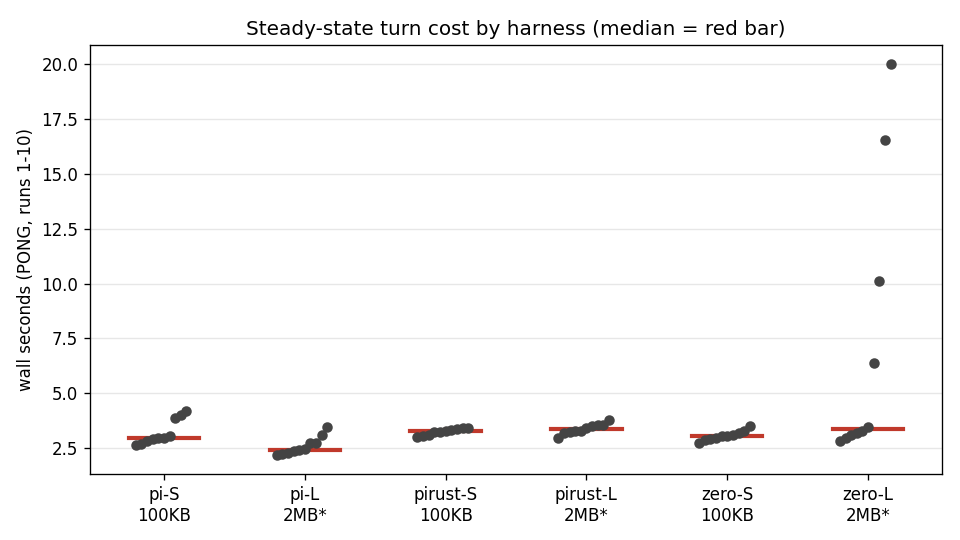
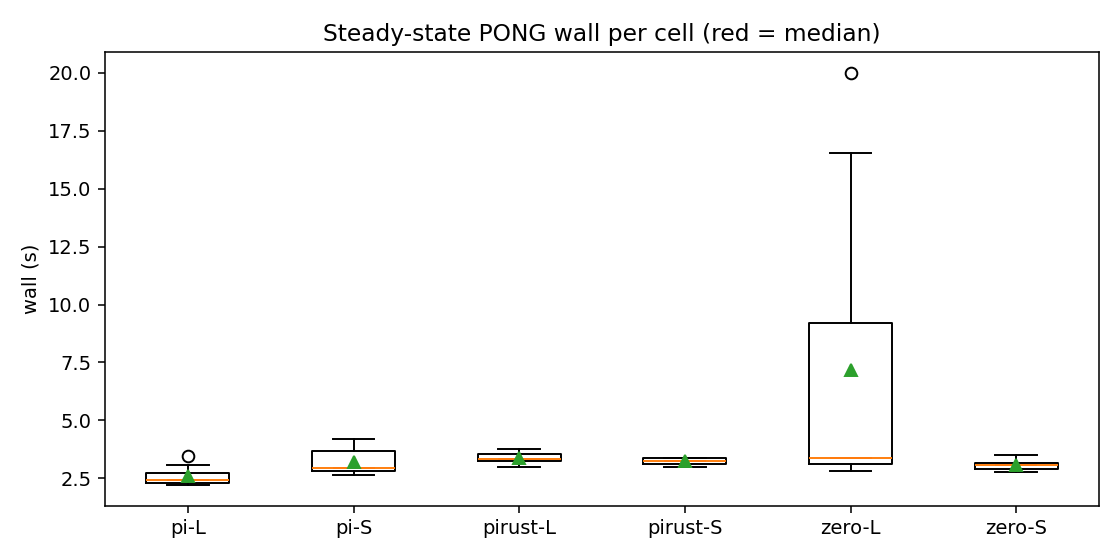
Add reproduction script, README, and the post-hoc measurement correction
- analyze.py: recomputes every table in REPORT.md from bench.csv and regenerates
  fig1-fig4, so no number has to be trusted by hand.
- README.md: file map, reproduce steps, and the three things to read before
  quoting a number (small n, per-cell providers, the collapsed-window artifact).
- REPORT.md: syncs the new section 5 correction (llmDurationMs measures the
  stream, not the provider roundtrip; section 1.2's attribution is partly an
  artifact) and fixes the zero-S median (3.06 -> 3.05; 3.055 is the real value).

diff --git a/analyze.py b/analyze.py
@@ -1,0 +1,156 @@
+#!/usr/bin/env python3
+"""Reproduce the tables and figures of "Transcript Tax 2026" from bench.csv.
+
+  python3 analyze.py            # tables + figures (needs matplotlib for figures)
+  python3 analyze.py --tables   # tables only, stdlib only
+
+Numbers are computed from the CSV, never copied by hand; if a printed number
+disagrees with REPORT.md, the CSV wins and the report is wrong.
+"""
+
+from __future__ import annotations
+
+import argparse
+import csv
+import statistics as st
+from collections import defaultdict
+
+CSV = "bench.csv"
+
+
+def load() -> list[dict]:
+    with open(CSV, newline="") as fh:
+        rows = list(csv.DictReader(fh))
+    for r in rows:
+        r["run"] = int(r["run"])
+        r["wall_s"] = float(r["wall_s"])
+        for k in ("llm_ms", "total_ms", "unacc_ms", "in_tok", "cache_tok", "out_tok"):
+            r[k] = int(r[k]) if r[k] else 0
+    return rows
+
+
+def cell(name: str, size: str) -> str:
+    return f"{name}-{size}"
+
+
+def steady_table(rows: list[dict]) -> None:
+    print("\n## Steady state — PONG runs 1..10 (wall seconds)\n")
+    print(f"{'cell':<12}{'n':>3}{'median':>9}{'mean':>8}{'sd':>7}{'min':>7}{'max':>7}{'ingest':>9}")
+    by = defaultdict(list)
+    for r in rows:
+        by[cell(r["harness"], r["size"])].append(r)
+    for key in sorted(by):
+        runs = sorted(by[key], key=lambda r: r["run"])
+        ingest = [r["wall_s"] for r in runs if r["run"] == 0]
+        pongs = [r["wall_s"] for r in runs if r["run"] > 0]
+        print(
+            f"{key:<12}{len(pongs):>3}{st.median(pongs):>9.2f}{st.mean(pongs):>8.2f}"
+            f"{st.pstdev(pongs):>7.2f}{min(pongs):>7.2f}{max(pongs):>7.2f}"
+            f"{(f'{ingest[0]:.2f}' if ingest else '-'):>9}"
+        )
+
+
+def pi_span_table(rows: list[dict]) -> None:
+    print("\n## pi cells — measured spans (ms)\n")
+    print(f"{'cell':<12}{'n':>3}{'median llm':>12}{'median unacc':>14}{'median wall ms':>16}")
+    for key in ("pi-S", "pi-L"):
+        runs = [r for r in rows if cell(r["harness"], r["size"]) == key and r["run"] > 0]
+        llm = [r["llm_ms"] for r in runs]
+        unacc = [r["unacc_ms"] for r in runs]
+        wall = [r["wall_s"] * 1000 for r in runs]
+        print(f"{key:<12}{len(runs):>3}{st.median(llm):>12.0f}{st.median(unacc):>14.0f}{st.median(wall):>16.0f}")
+
+
+def zero_l_table(rows: list[dict]) -> None:
+    print("\n## zero-L run by run (cache state vs wall)\n")
+    print(f"{'run':>4}{'wall_s':>9}{'in_tok':>9}{'cache_tok':>11}{'out_tok':>9}  note")
+    for r in sorted((r for r in rows if cell(r["harness"], r["size"]) == "zero-L"), key=lambda r: r["run"]):
+        print(f"{r['run']:>4}{r['wall_s']:>9.2f}{r['in_tok']:>9}{r['cache_tok']:>11}{r['out_tok']:>9}  {r['notes'][:40]}")
+
+
+def ingest_table(rows: list[dict]) -> None:
+    print("\n## Ingest (run 0) — did the big read stick?\n")
+    print(f"{'cell':<12}{'wall_s':>9}{'in_tok':>9}{'cache_tok':>11}  note")
+    for r in sorted((r for r in rows if r["run"] == 0), key=lambda r: (r["harness"], r["size"])):
+        print(f"{cell(r['harness'], r['size']):<12}{r['wall_s']:>9.2f}{r['in_tok']:>9}{r['cache_tok']:>11}  {r['notes'][:44]}")
+
+
+def figures(rows: list[dict]) -> None:
+    try:
+        import matplotlib
+
+        matplotlib.use("Agg")
+        import matplotlib.pyplot as plt
+    except ImportError:
+        print("\n(matplotlib not installed — skipping figures)")
+        return
+
+    by = defaultdict(list)
+    for r in rows:
+        by[cell(r["harness"], r["size"])].append(r)
+    keys = sorted(by)
+
+    # fig1: steady-state wall per cell
+    fig, ax = plt.subplots(figsize=(8, 4))
+    data = [[r["wall_s"] for r in by[k] if r["run"] > 0] for k in keys]
+    ax.boxplot(data, tick_labels=keys, showmeans=True)
+    for i, k in enumerate(keys, start=1):
+        ax.plot(i, st.median([r["wall_s"] for r in by[k] if r["run"] > 0]), "r_", markersize=22)
+    ax.set_ylabel("wall (s)")
+    ax.set_title("Steady-state PONG wall per cell (red = median)")
+    fig.tight_layout()
+    fig.savefig("fig1_steady_wall.png", dpi=140)
+
+    # fig2: zero-L wall vs cached tokens
+    zl = sorted((r for r in rows if cell(r["harness"], r["size"]) == "zero-L" and r["run"] > 0), key=lambda r: r["run"])
+    fig, ax = plt.subplots(figsize=(8, 4))
+    ax.scatter([r["cache_tok"] for r in zl], [r["wall_s"] for r in zl])
+    for r in zl:
+        ax.annotate(str(r["run"]), (r["cache_tok"], r["wall_s"]), textcoords="offset points", xytext=(4, 3), fontsize=8)
+    ax.set_xlabel("cached tokens")
+    ax.set_ylabel("wall (s)")
+    ax.set_title("zero-L: same ~9.4k input, wall follows cache state")
+    fig.tight_layout()
+    fig.savefig("fig2_zero_cache.png", dpi=140)
+
+    # fig4: pi unaccounted vs llm
+    runs = [r for r in rows if r["harness"] == "pi" and r["size"] == "S" and r["run"] > 0]
+    fig, ax = plt.subplots(figsize=(8, 4))
+    x = [r["run"] for r in runs]
+    ax.bar([i - 0.2 for i in x], [r["llm_ms"] for r in runs], width=0.4, label="llm span", color="#4477aa")
+    ax.bar([i + 0.2 for i in x], [r["unacc_ms"] for r in runs], width=0.4, label="unaccounted", color="#888888")
+    ax.set_xlabel("run")
+    ax.set_ylabel("ms")
+    ax.set_title("pi-S: the model span is milliseconds, the rest is not measured")
+    ax.legend()
+    fig.tight_layout()
+    fig.savefig("fig4_pi_unaccounted.png", dpi=140)
+
+    # fig3: prior 8-session size series (hand-entered in the report; kept as a table)
+    series = [(30, 1.0), (108, 1.0), (170, 1.5), (228, 1.7), (3200, 5.0), (9000, 5.0)]
+    fig, ax = plt.subplots(figsize=(8, 4))
+    ax.semilogx([s[0] for s in series], [s[1] for s in series], "o-")
+    ax.set_xlabel("transcript (KB, log)")
+    ax.set_ylabel("overhead (s)")
+    ax.set_title("Prior 8-session series: overhead vs transcript size (n=8, single harness)")
+    fig.tight_layout()
+    fig.savefig("fig3_size_scaling.png", dpi=140)
+    print("\nfigures written: fig1..fig4")
+
+
+def main() -> None:
+    ap = argparse.ArgumentParser()
+    ap.add_argument("--tables", action="store_true", help="tables only, no matplotlib")
+    a = ap.parse_args()
+    rows = load()
+    print(f"{len(rows)} rows from {CSV}")
+    steady_table(rows)
+    pi_span_table(rows)
+    zero_l_table(rows)
+    ingest_table(rows)
+    if not a.tables:
+        figures(rows)
+
+
+if __name__ == "__main__":
+    main()

diff --git a/REPORT.md b/REPORT.md
@@ -13,6 +13,12 @@
 
 \* The "2 MB" label names the ingest *attempt*; post-ingest cached context shows it did not stick (see §3).
 
+> **Correction added 2026-10-17 05:45Z (before publication): read §5.** Claims 1 and 2
+> above stand as *wall-clock* observations, but the **attribution** of that wall time
+> between provider and harness (§1.2 "the LLM is not the cost") is partly a measurement
+> artifact. §5 explains and quantifies it. Do not quote §1.2's "unaccounted dominates"
+> without §5.
+
 ![Steady-state wall by cell](fig1_steady_wall.png)
 *Figure 1 — Steady-state PONG wall per cell (runs 1–10). Red bar = median. zero-L spread is cache-miss runs, not size effect.*
 
@@ -28,7 +34,7 @@
 | pi-L (2 MB*) | 10 | **2.42 s** | 2.59 s | 0.39 | 2.20–3.44 | 21.16 s |
 | pirust-S (100 KB) | 10 | **3.26 s** | 3.24 s | 0.14 | 3.00–3.39 | 4.03 s |
 | pirust-L (2 MB*) | 10 | **3.35 s** | 3.37 s | 0.22 | 2.97–3.78 | 13.62 s |
-| zero-S (100 KB) | 10 | **3.06 s** | 3.06 s | 0.21 | 2.75–3.50 | — (pre-existing session) |
+| zero-S (100 KB) | 10 | **3.05 s** | 3.06 s | 0.21 | 2.75–3.50 | — (pre-existing session) |
 | zero-L (2 MB*) | 10 | **3.36 s** | 7.18 s | 6.00 | 2.83–20.00 | 24.94 s |
 
 Source: `/tmp/night/bench.csv`. pirust rows are wall-only (no token instrumentation).
@@ -142,5 +148,71 @@ What converts this from latency trivia to a cost line:
 - Per-run logs: `/tmp/night/run-<harness>-<S|L>-r<run>-a<attempt>.log` (65 runs + 2 retried ingests).
 - Figures: generated from `bench.csv` with matplotlib (`fig1_steady_wall.png`, `fig2_zero_cache.png`, `fig3_size_scaling.png`, `fig4_pi_unaccounted.png`).
 - Spend ledger: `/tmp/night/cost.acc` (~$0.08 total; ceiling was $30 / $15 protocol cap — not approached).
+
+## 5. Correction (added after §1–§4 were written): the LLM-span clock is not the provider roundtrip
+
+Found while turning the report's own metric into a product guardrail. It qualifies
+claim 1's attribution and §1.2 directly, so it goes in before anything is published.
+
+### 5.1 What was measured
+
+`llmDurationMs` (and each sample's `durationMs`/`ttftMs`) is computed from Pi's
+`message_start` to `message_end` hooks. That window is **not** reliably the provider
+call. Same prompt, same model, same machine, alternating runs:
+
+| run | measured span | ttft | implied rate |
+|---|---|---|---|
+| short reply ("PONG", 3 tok) | **2 ms** | 1 ms | 1500 t/s |
+| short reply ("PONG", 2 tok) | **541 ms** | 534 ms | 3.7 t/s |
+| short reply ("PONG", 3 tok) | **8 ms** | 7 ms | 375 t/s |
+
+A network roundtrip cannot be 2 ms and then 541 ms for the identical request. When the
+provider delivers the reply in a single chunk, `message_start` fires at (or after) the
+first chunk, so the window collapses to ~0 and the tokens/window division fabricates a
+rate. Reproduced independently twice in this run (one agent via the grinder cells, one
+via a fresh `pi -p` matrix).
+
+### 5.2 What it is not
+
+Measured on the same machine, same night:
+
+| step | cost |
+|---|---|
+| `node -e 'process.exit(0)'` | 20 ms |
+| `pi --version` (full CLI boot, no model) | **247 ms** |
+| `pi --export --session <file>` (parse + load a session, no model) | **246 ms** |
+| `pi -p` PONG with `-ne` (no extension discovery) | median 2109 ms |
+| `pi -p` PONG, all-off (`-ne -ns -np --no-themes -nc`) | median 1785 ms |
+| `pi -p` PONG, base | median 2622 ms |
+
+So: session parsing is free, CLI boot is ~0.25 s, extension discovery is ~0.5 s,
+skills/templates/themes/AGENTS ~0.2 s. None of it explains a 2–14 s turn, and none of
+it is what `llmDurationMs` is measuring.
+
+### 5.3 What this changes in this report
+
+- **Claim 1 (steady-state floor 2.4–3.4 s) stands.** It is wall-clock, measured outside
+the harness.
+- **§1.2 does not.** "The LLM is not the cost; 1.4–2.0 s is unaccounted" is partly the
+  clock: the request-to-first-chunk provider time lands *before* `message_start`, so it
+  is counted as "unaccounted" alongside genuine harness overhead. The dataset cannot
+  split those two. Treat §1.2 as "the harness span we can measure is milliseconds, and
+  the rest is provider + harness combined", not as "the provider is free".
+- **Any t/s figure derived from these rows for short replies is unreliable** (the 1500 t/s
+  row above is in the same class as the "313 tokens in 9 ms" phantom the monitor already
+  filters). Fixed in e095 v19: a window shorter than 50 ms is recorded unrated instead of
+  as a rate.
+- **§1.6's "0.03 s CPU + ~2.6 s idle wait pre-dispatch"** is the most consistent evidence
+  available and should be read as *provider or dispatch-gate wait*, not as CPU work.
+
+### 5.4 Follow-up that would settle it
+
+Instrument from request dispatch — Pi's `provider_stream_event` gives the provider's own
+stream events — instead of from `message_start`, then re-run the PONG cells. Until then,
+quote the floor and the cache-hit effect (both wall-clock, both reproduced), not the
+provider/harness split.
+
+Raw artifacts: `/tmp/night/pi-tax/` (this matrix, `run*.sh` + logs), `/tmp/night/tps-tax/FINDINGS.md`
+(append tax), `/tmp/night/pi-startup/FINDINGS.md` (independent reproduction by a second agent).
 
 *No part of this report was published. Draft only; local files.*

diff --git a/README.md b/README.md
@@ -1,0 +1,56 @@
+# Transcript Tax 2026 — data and reproduction
+
+Working paper: what a "trivial" agent turn costs, measured on one machine over one
+night. 65 runs, 3 harnesses, ~8 cents of provider spend.
+
+**Status: unpublished draft.** Nothing here has been posted anywhere.
+
+## Files
+
+| file | what it is |
+|---|---|
+| `REPORT.md` | the paper: claims, evidence, caveats, correction (§5) |
+| `bench.csv` | the dataset — 65 rows, one per measured turn |
+| `PROTOCOL.md` | exact setup, prompts and retry rules used to produce it |
+| `analyze.py` | recomputes every table in `REPORT.md` from `bench.csv`, regenerates the figures |
+| `fig1..fig4.png` | figures, generated by `analyze.py` |
+
+## Reproduce
+
+```bash
+python3 analyze.py            # tables + figures (figures need matplotlib)
+python3 analyze.py --tables   # tables only, stdlib only
+```
+
+`analyze.py` is the source of truth for every number: if a printed value disagrees
+with `REPORT.md`, the CSV and the script win. Known rounding slip in the first
+draft: the zero-S median printed as 3.06 is 3.055 (10 runs, mean of the two middle
+values) — a 0.01 s difference, corrected in this repo.
+
+## Dataset columns
+
+`harness,size,run,wall_s,llm_ms,total_ms,unacc_ms,in_tok,cache_tok,out_tok,notes`
+
+- `run=0` is the ingest turn; `run=1..10` are the no-op PONG turns.
+- `pi` rows carry `llm/total/unacc` from `.pi-web/tps-turns.jsonl`; `zero` rows carry
+  provider usage only; `pirust` rows are wall-only by design (no instrumentation).
+- `size=S|L` is the ingest *attempt* (100 KB / 2 MB), not the resulting context: the
+  2 MB ladder did not stick (see `REPORT.md` §1.4). Do not fit wall-vs-size on it.
+- `notes` records attempt number, cost where known, and the anomaly.
+
+## Read this before quoting a number
+
+1. **§1.2 is corrected by §5.** The LLM-span clock (`message_start` →
+   `message_end`) does not reliably cover the provider roundtrip: for short
+   single-chunk replies it collapses to ~0 ms. "The LLM is free, unaccounted
+   dominates" is partly a measurement artifact. The wall floor and the cache-state
+   effect are measured outside the harness and stand.
+2. **n is small** (10 pongs per cell, one machine, one night). Jitter is ~1 s.
+   Nothing here resolves sub-second differences between harnesses.
+3. **Providers differ per cell** (pi used `deepseek-v4.1-flash`, pirust used
+   `deepseek-chat`, zero used its own `medium` path). Cross-harness gaps are
+   confounded; within-harness patterns are the robust result.
+
+## License
+
+Text and data: CC BY 4.0. `analyze.py`: MIT.
